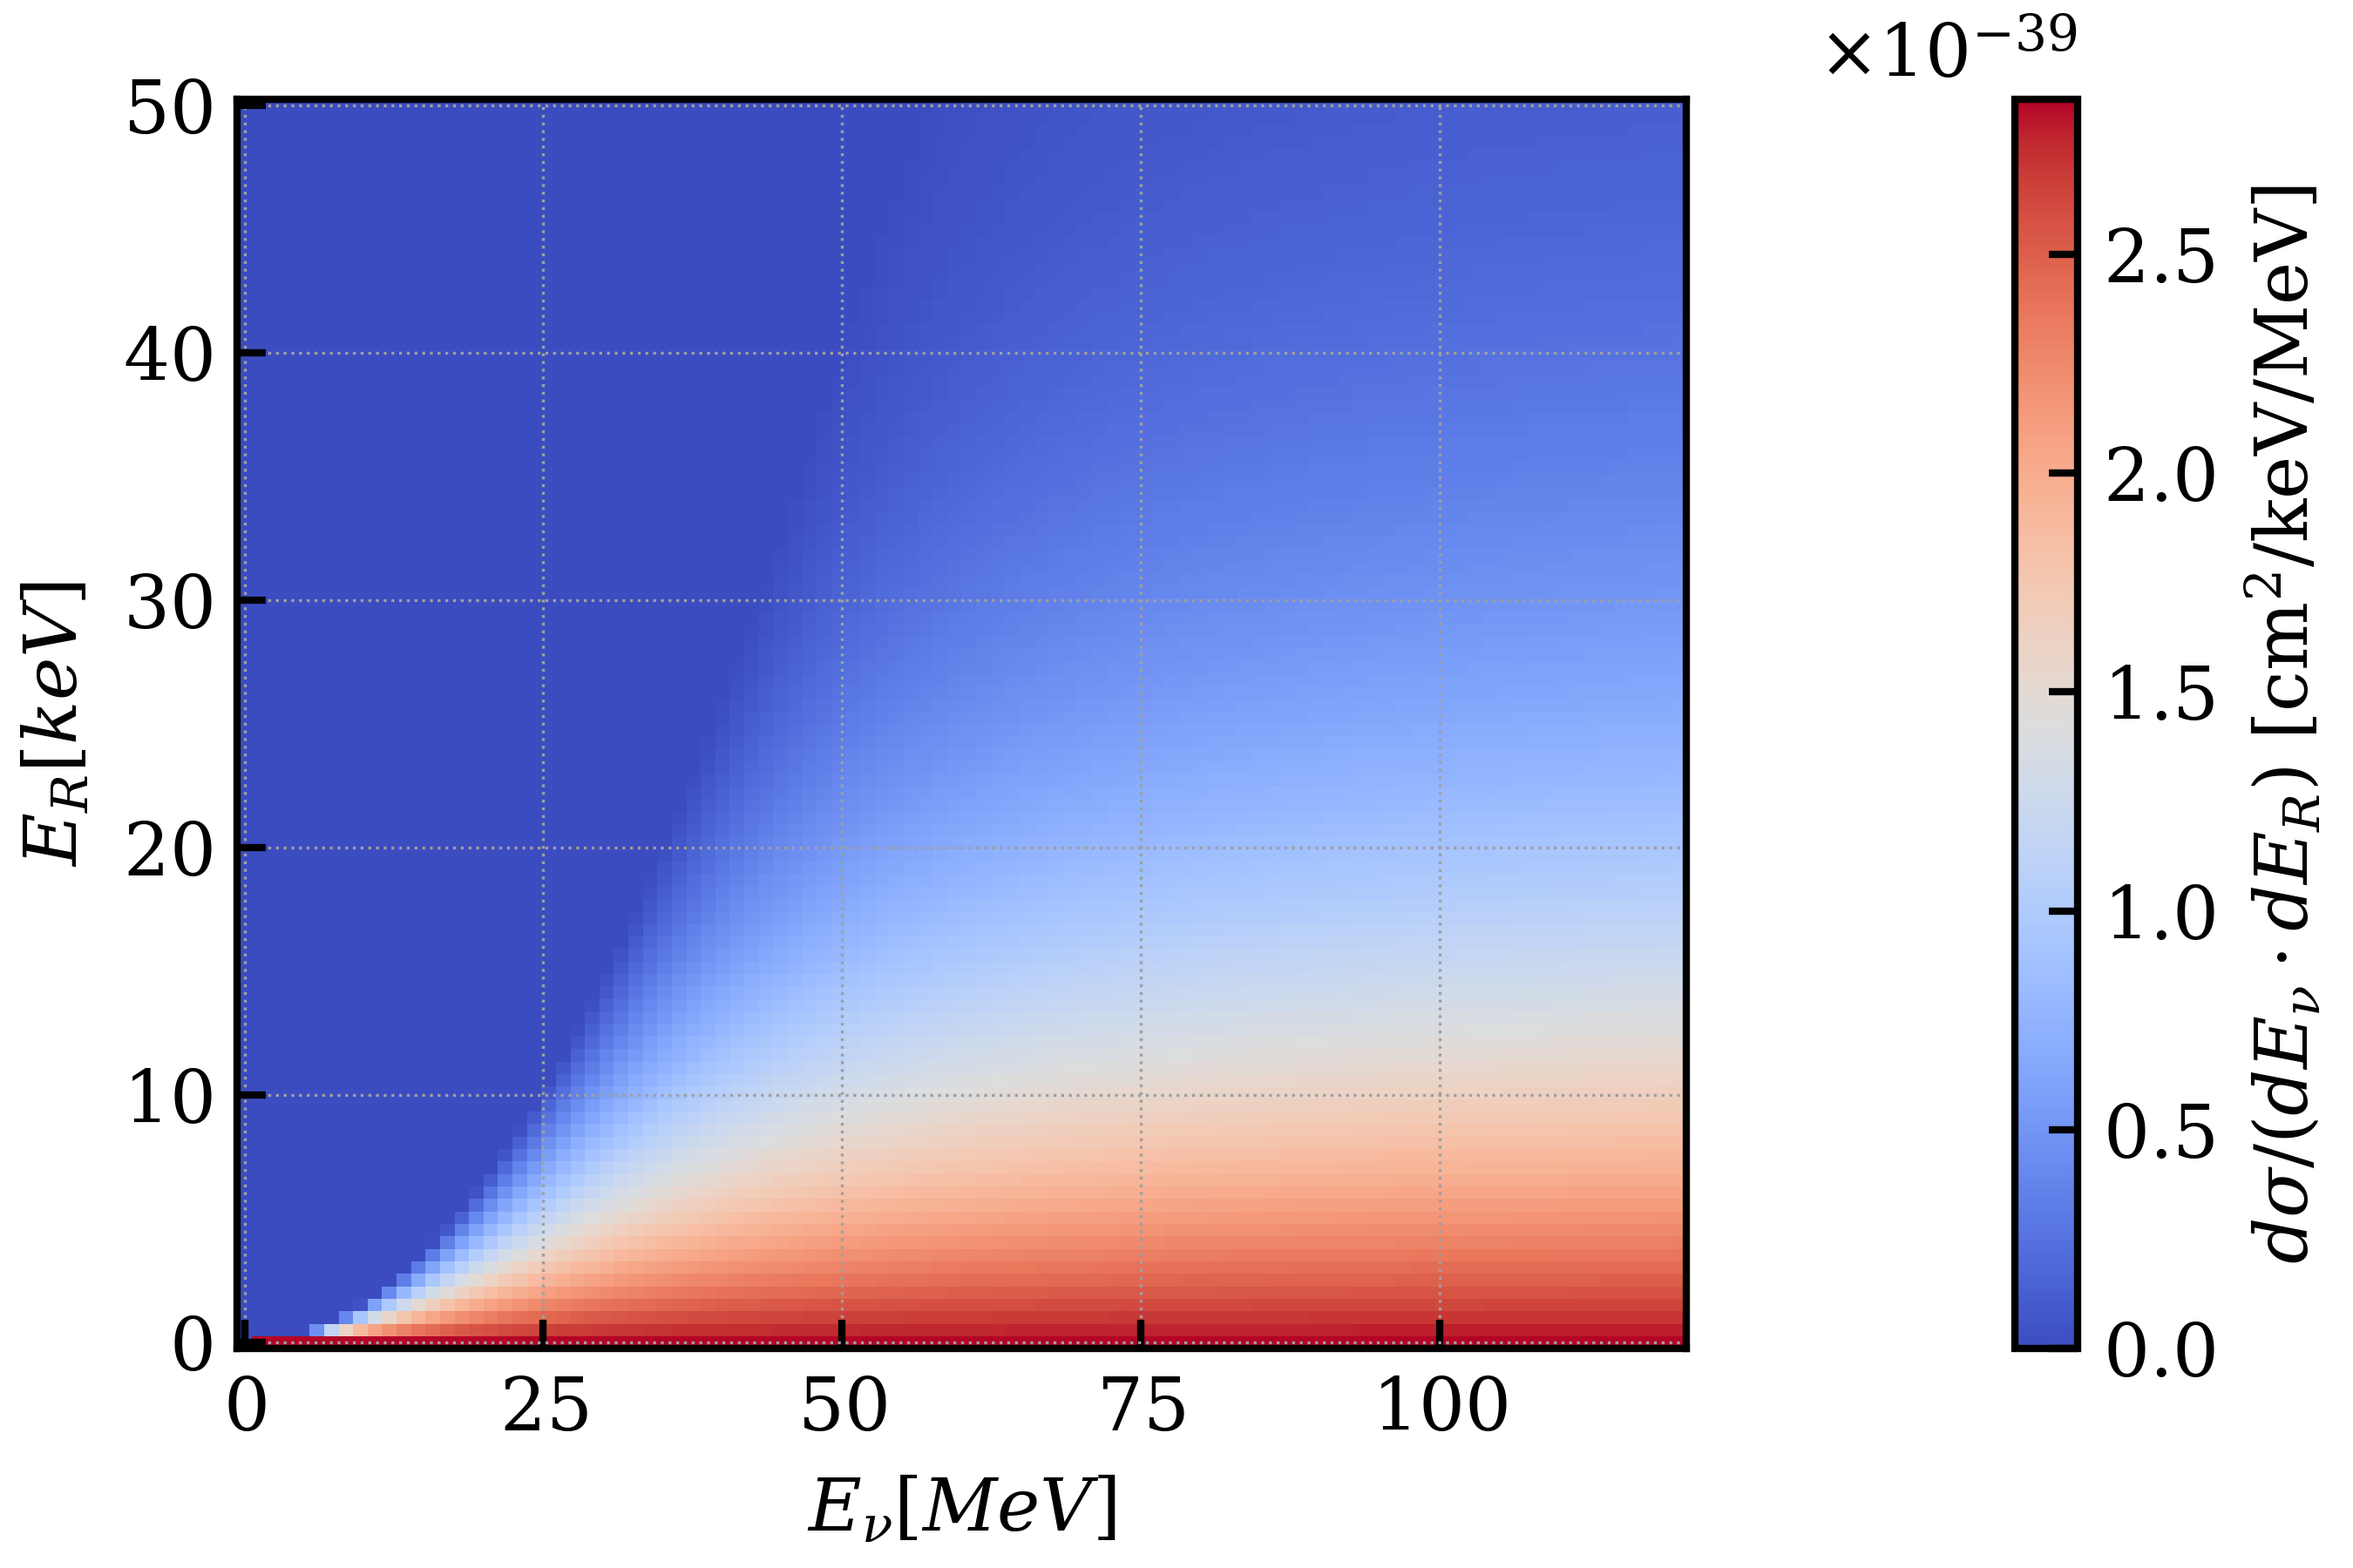
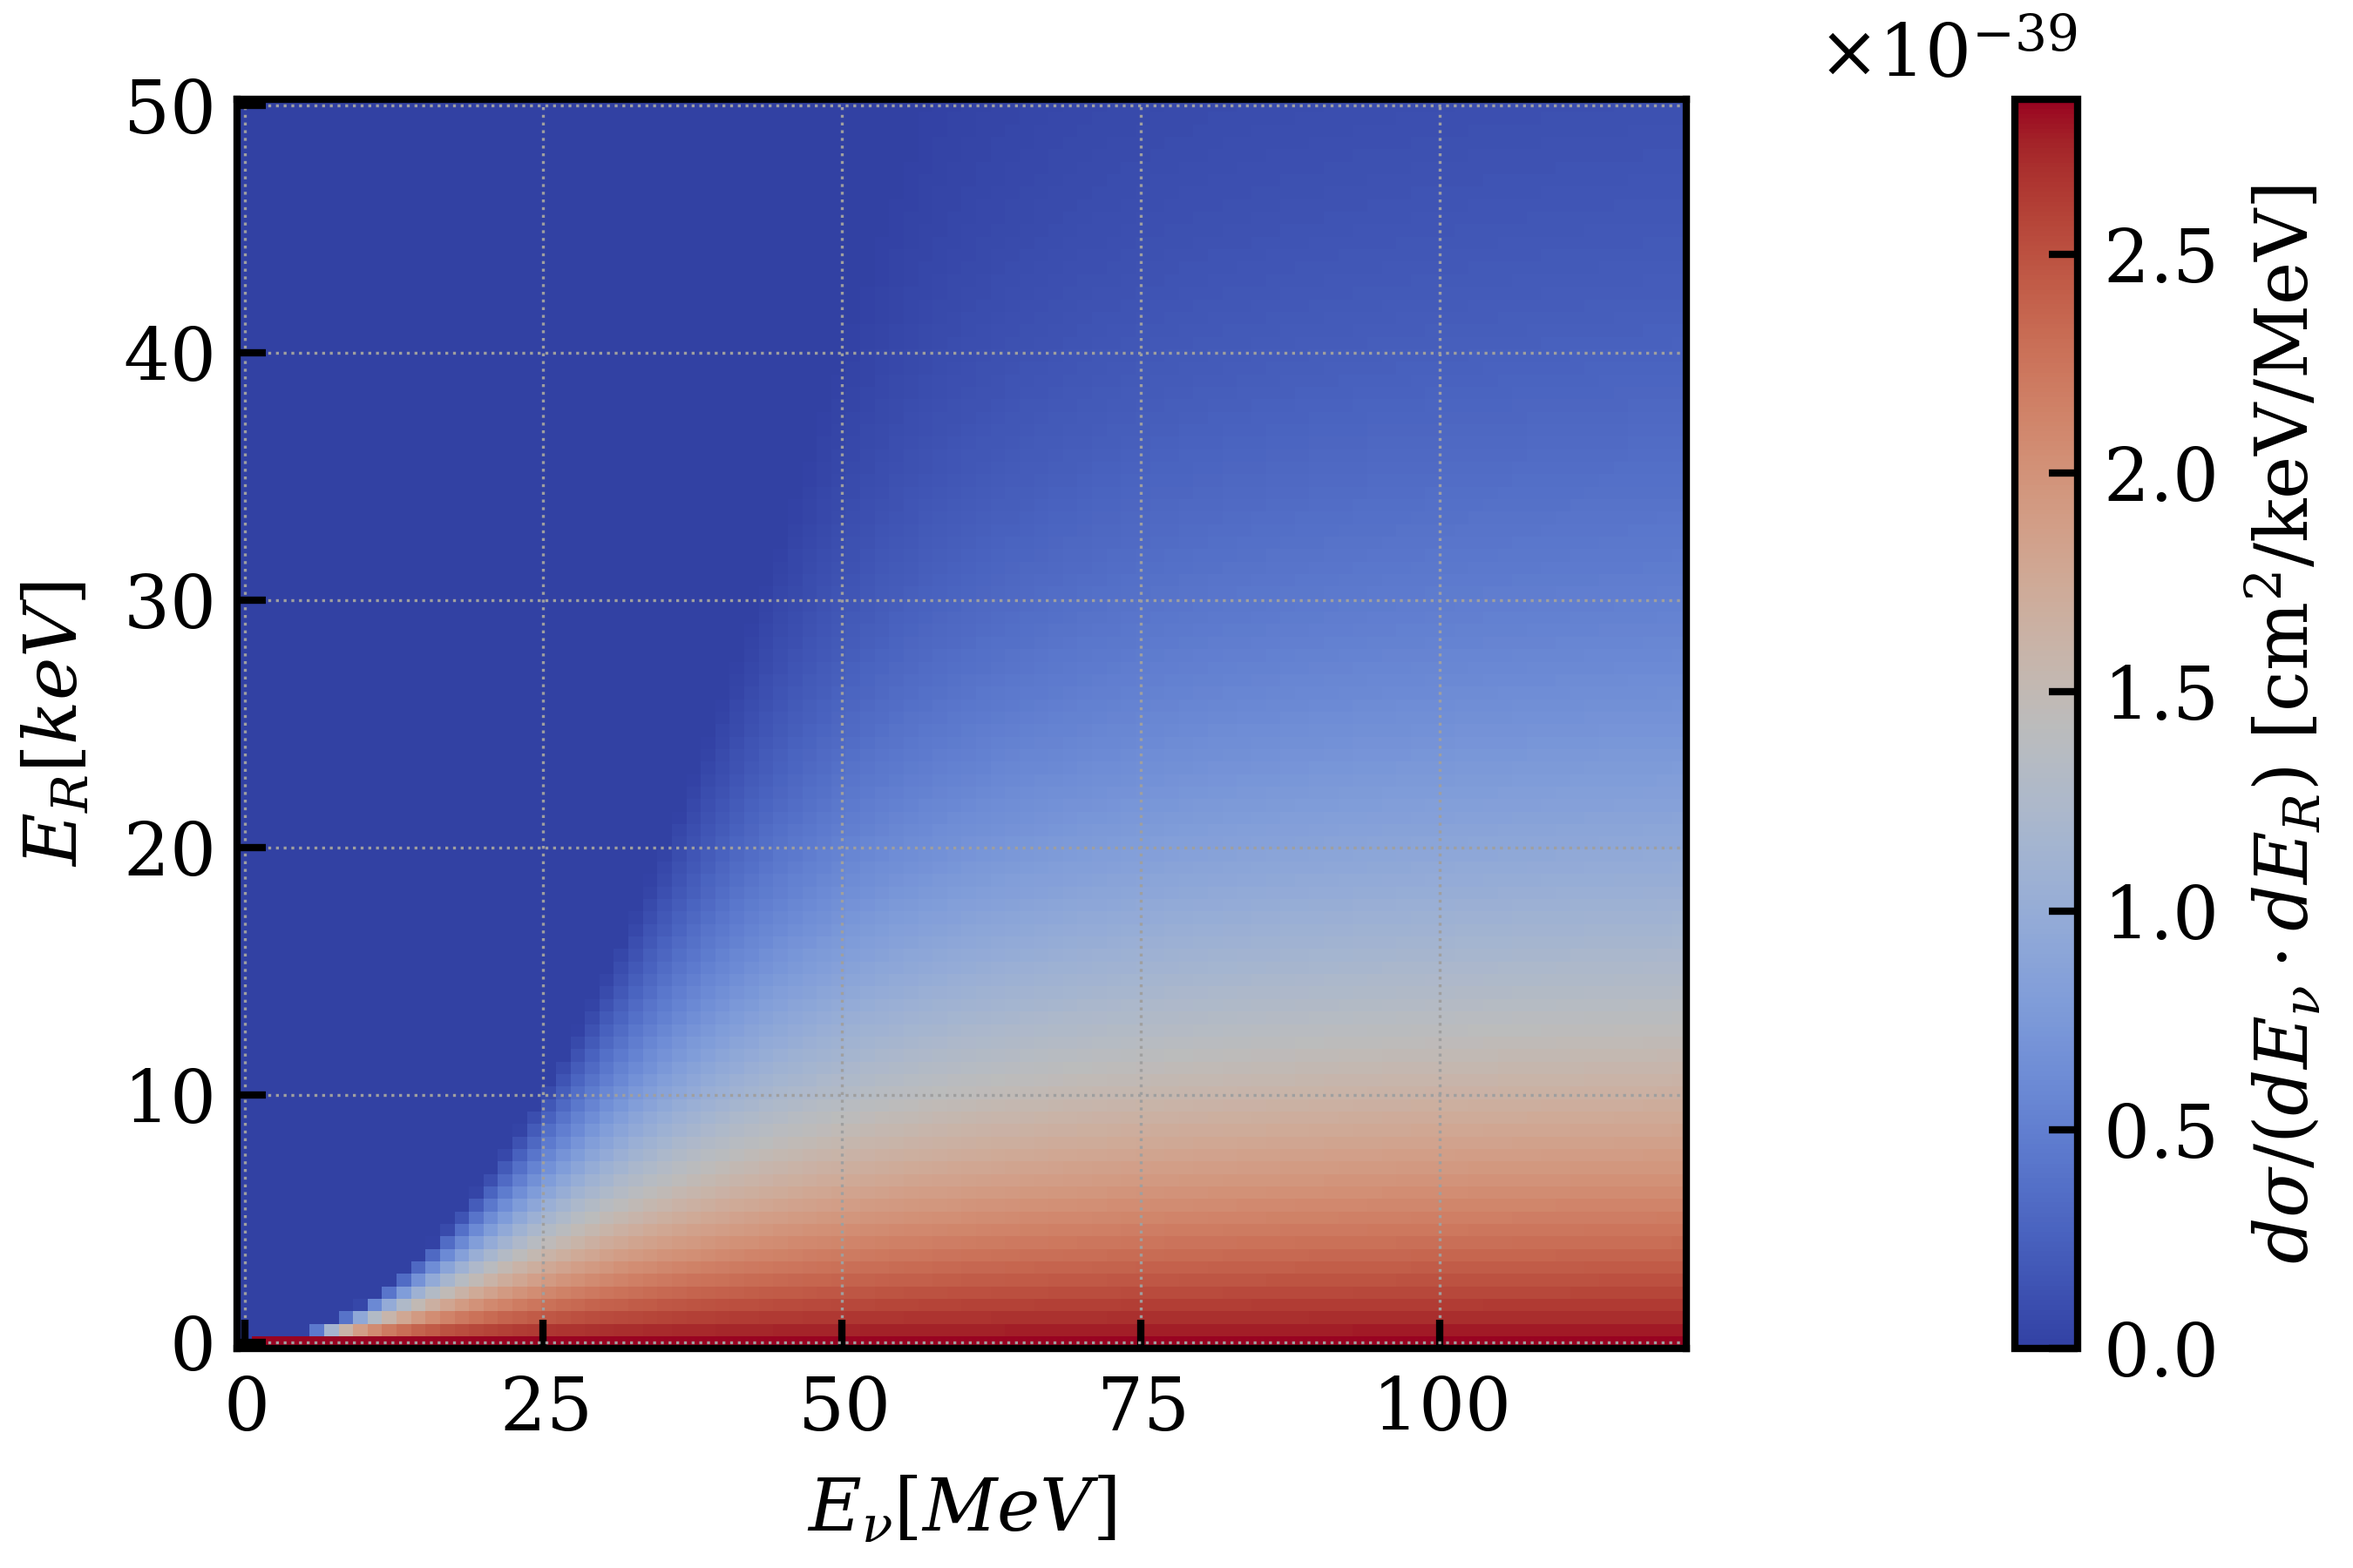
More isotopes in form factor

diff --git a/Supernova/cevns.py b/Supernova/cevns.py
@@ -4,21 +4,33 @@ import astropy.units as u
 from multimessenger.supernova.Nucleus import Target
 from multimessenger.supernova.Xenon_Atom import ATOM_TABLE
 from matplotlib.colors import ListedColormap
+from matplotlib.colors import ListedColormap, LogNorm
 
+
+# Get the colormap colors, multiply them with the factor "a", and create new colormap
+a = 0.85
+coolwarm = plt.cm.coolwarm(np.arange(plt.cm.coolwarm.N))
+coolwarm[:,0:3] *= a 
+coolwarm = ListedColormap(coolwarm)
 
 def plot_formfactor():
-    recoil_en = np.linspace(0,200,100) * u.keV
-    singleXe = Target(ATOM_TABLE['Xe131'], pure=True)
-    formfac = singleXe.form_factor(recoil_en)
-
     fig, ax = plt.subplots(1,1,figsize = (4.5,3))
-    ax.plot(recoil_en, formfac**2)
+    
+    xe_isotopes = ['Xe129','Xe131','Xe132','Xe134','Xe136',]
+    for xe in xe_isotopes:
+        recoil_en = np.linspace(0,200,100) * u.keV
+        singleXe = Target(ATOM_TABLE[xe], pure=True)
+        formfac = singleXe.form_factor(recoil_en)
+
+        
+        ax.plot(recoil_en, formfac**2, label = ATOM_TABLE[xe]['Type'])
     ax.set_yscale('log')
     ax.set_xlabel('E$_R$ [keV]')
     ax.set_ylabel('$F(q^2)^2$')
     ax.set_xlim(0,200)
-    ax.set_ylim(3e-7, 1)
-    fig.savefig('Figures/form_factor.pdf')
+    ax.set_ylim(1e-7, 1)
+    ax.legend()
+    fig.savefig('Figures/form_factor_all_isotopes.pdf')
 
 def plot_cevns_matrix():
     recoil_en = np.linspace(0,50,100) * u.keV
@@ -29,7 +41,7 @@ def plot_cevns_matrix():
     fig, ax = plt.subplots(1,1,figsize = (4.5,3))
     matrix = ax.pcolormesh(neutrino_en.value, recoil_en.value, 
                            crosssec.to(u.cm**2/u.keV), norm = 'linear', 
-                    vmin = 0, cmap='coolwarm') #, norm=LogNorm())
+                    vmin = 0, cmap=coolwarm) #, norm=LogNorm())
     fig.colorbar(matrix, label = "$d\sigma/(dE_\\nu \cdot dE_R)$ [cm$^2$/keV/MeV]")
     ax.set_ylabel('$E_R [keV]$')
     ax.set_xlabel('$E_\\nu [MeV]$')
